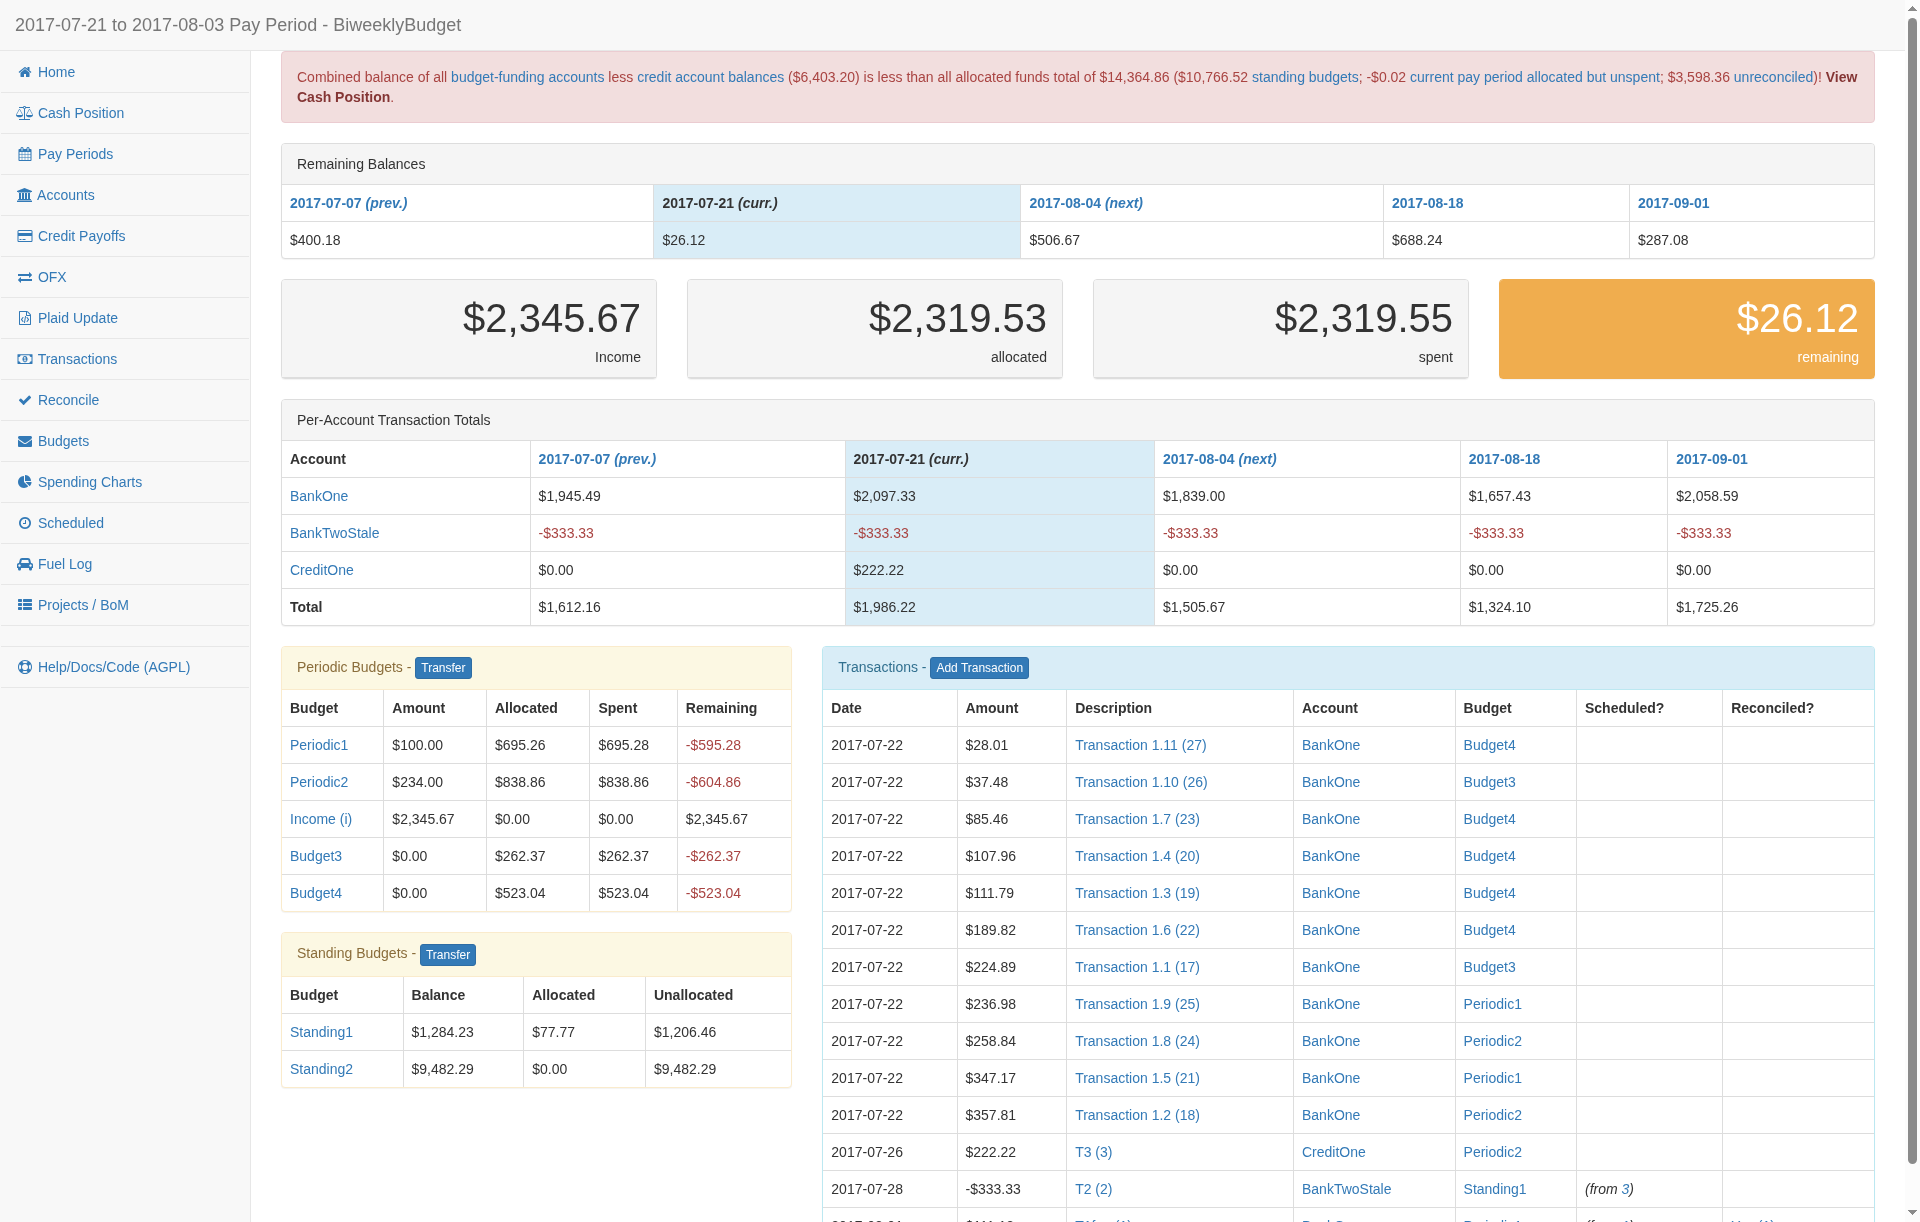
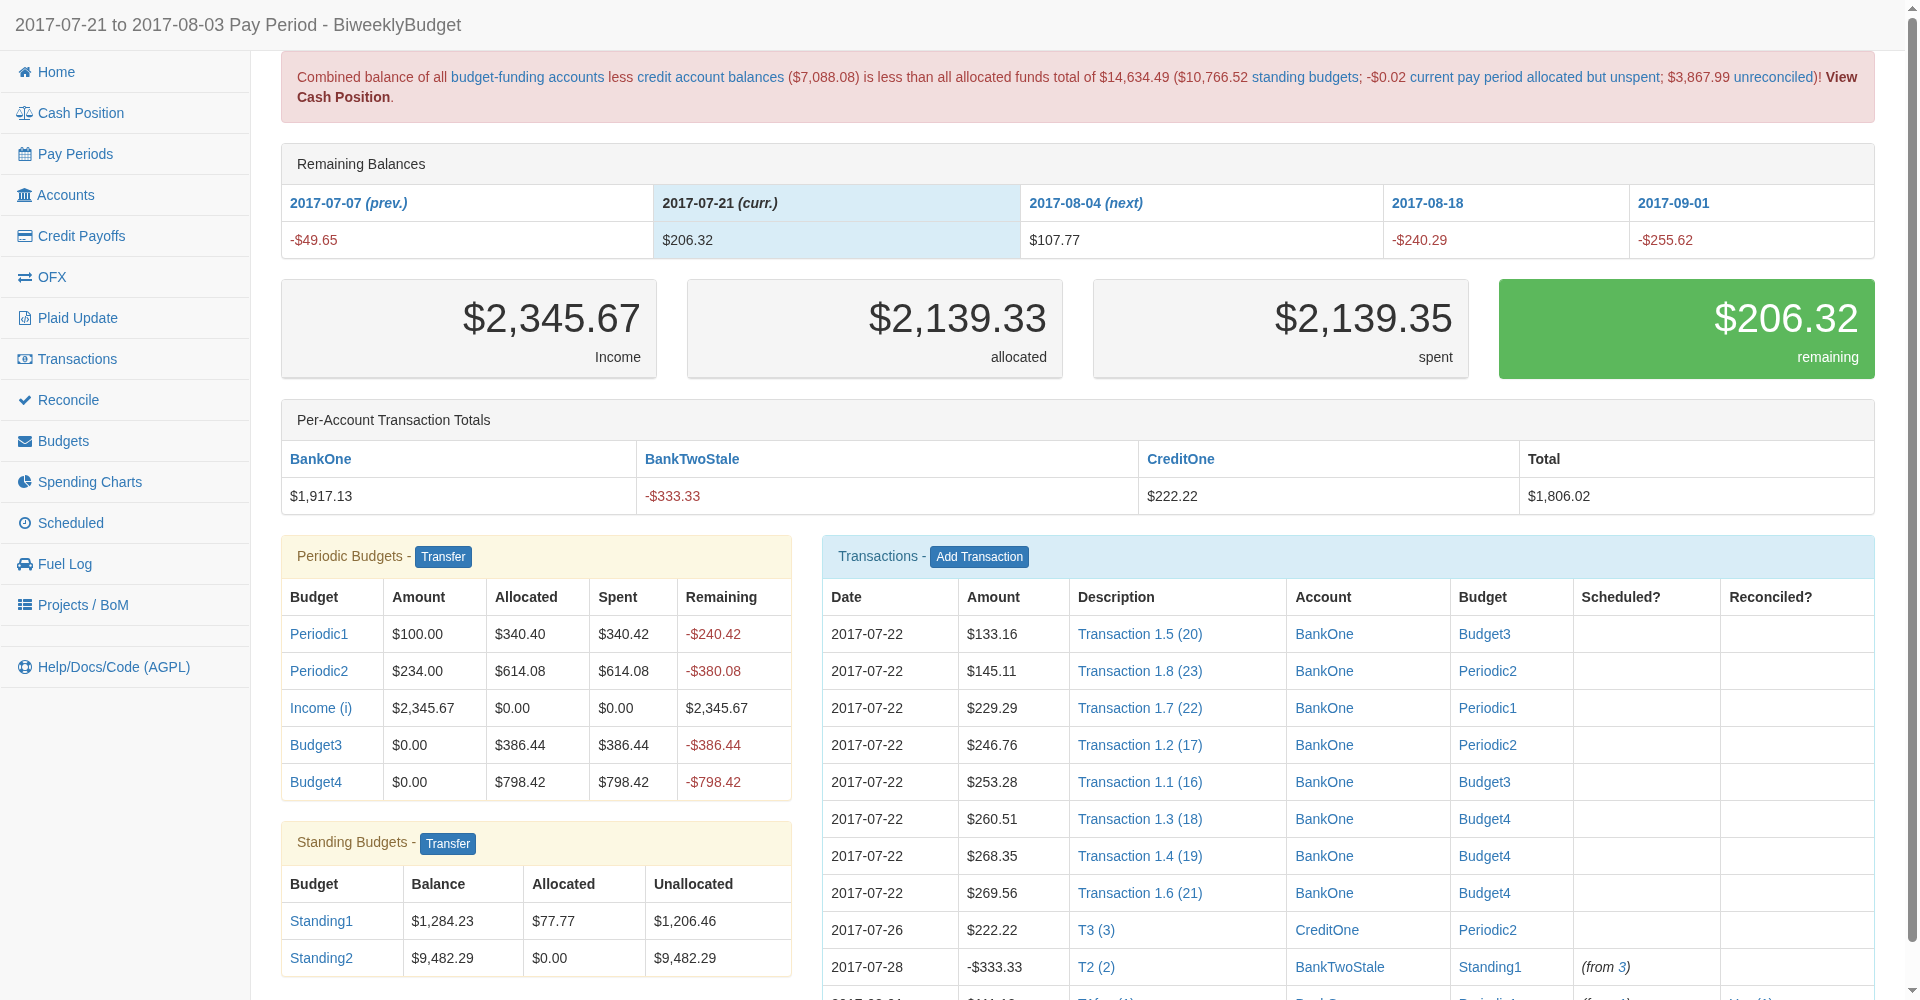
Current Period Account Totals - M3.1: Regenerate the pay period screenshot (issue #355)
The committed payperiod.png showed the old five-column table. Regenerated with
tox -e screenshots; it now shows the panel as shipped -- accounts across the top
(BankOne, BankTwoStale, CreditOne), a Total column, and one row of amounts --
with the Remaining Balances table above it still covering five pay periods.

A regeneration rewrites every PNG in docs/source/ whether or not anything about
them changed, so the other 38 it touched were restored; only the two images this
feature actually changes are committed.

docs/source/screenshots.rst came back byte-identical, confirming the caption edit
in docs/make_screenshots.py matches what the generator emits.

Claude-Session: https://claude.ai/code/session_01Nqo1EPCYFJ9rHetCFJ2Pt6

diff --git a/specs/20260919-174820-current-period-account-totals/tasks.md b/specs/20260919-174820-current-period-account-totals/tasks.md
@@ -129,13 +129,13 @@ every suite passes in full.
 - [X] T023 [P] Rewrite the `app_usage.per_account_totals` section of `docs/source/app_usage.rst` for the transposed single-period table: one column per account with activity in the period being viewed, a `Total` column, account links, and the `$0.00`-only empty case. Delete the description of five columns matching the Remaining Balances table *(M3.1)*
 - [X] T024 [P] Retain and adjust the `app_usage.per_account_totals.not_budget_totals` subsection of `docs/source/app_usage.rst` — the explanation of why these totals deliberately differ from the budget totals stays (FR-012); only wording that assumed columns-as-periods changes *(M3.1)*
 - [X] T025 [P] Update the `payperiod` screenshot caption in `docs/make_screenshots.py`, removing "across the five periods shown at the top of the page", and make the identical edit to the "Single Pay Period View" caption in `docs/source/screenshots.rst` — that file is generated from the script but is committed, so both must match *(M3.1)*
-- [ ] T026 Regenerate the pay period screenshot with `tox -e screenshots` and commit **only** `docs/source/payperiod.png` and `docs/source/payperiod_sm.png`; restore every other PNG the run rewrote. Never run `docs` concurrently. If the run is killed for memory, restore `docs/source/` and note it in the pull request rather than committing a partial set *(M3.1)*
+- [X] T026 Regenerate the pay period screenshot with `tox -e screenshots` and commit **only** `docs/source/payperiod.png` and `docs/source/payperiod_sm.png`; restore every other PNG the run rewrote. Never run `docs` concurrently. If the run is killed for memory, restore `docs/source/` and note it in the pull request rather than committing a partial set *(M3.1)*
 - [X] T027 Add one concise bullet to `CHANGES.rst` under an `Unreleased` heading (creating the heading beneath the `Changelog` title if absent), led by the issue #355 link, describing the user-visible change in a sentence or two. Do **not** touch `biweeklybudget/version.py` (Constitution principle VI) *(M3.2)*
 - [X] T028 Run the full unit suite to completion — `tox -e py314`, which also applies pycodestyle and pyflakes — redirecting to a scratchpad file, and confirm it passes *(M3.3)*
 - [X] T029 Run the full acceptance suite to completion — `tox -e acceptance` — redirecting to a scratchpad file, and confirm it passes. Re-run any of the known-flaky tests in isolation before attributing a failure to this change *(M3.3)*
 - [X] T030 [P] Run `tox -e docs` to completion and confirm it builds without errors, after any screenshot regeneration has finished (Constitution principle IV) *(M3.3)*
 - [X] T031 [P] Run `tox -e migrations` as a regression check; this feature changes no models and adds no migration, so it must pass untouched *(M3.3)*
-- [ ] T032 Walk the manual validation table in `specs/20260919-174820-current-period-account-totals/quickstart.md` against a running app, including the narrow-window horizontal scroll check and a period other than the current one *(M3.3)*
+- [X] T032 Walk the manual validation table in `specs/20260919-174820-current-period-account-totals/quickstart.md` against a running app, including the narrow-window horizontal scroll check and a period other than the current one *(M3.3)*
 - [ ] T033 Record progress in the feature's spec artifacts, commit the whole milestone, push the branch to `origin`, and open a detailed pull request *(M3.4)*
 
 **Suite results** (2026-09-19, MariaDB 10.4.7 test container):
